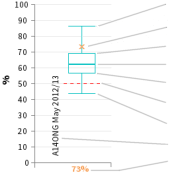
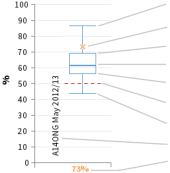
UI changes.

Changed region(s): [[0.3824, 0.1445, 0.5882, 0.5491]]

diff --git a/css/class_totals.css b/css/class_totals.css
@@ -57,13 +57,14 @@ td {
   background-color:#FFFF80;
 }
 .papernote {
+  margin:10px;
   padding:10px;
   width:300px;
   min-height:100px;
   line-height:150%;
-  background-color:#FFFF99;
   float:left;
-  border:5px solid white;
+  background-color:#FCE699;
+	border:1px solid #E6B10D;
 }
 .studentnote {
   display:none;
@@ -73,7 +74,8 @@ td {
   width:350px;
   z-index:10000;
   font-size:90%;
-  background-color:#FFFF99;
+  background-color:#FCE699;
+	border:1px solid #E6B10D;
 }
 .staff {
   background-color:#FCD5B4;

diff --git a/reports/draw_scatter_plot.php b/reports/draw_scatter_plot.php
@@ -41,17 +41,16 @@
     }
   }
   
-  $color = ImageColorAllocate($Image, 255, 255, 255);
-  $red = ImageColorAllocate($Image, 255, 0, 0);
-  $ltgrey = ImageColorAllocate($Image, 234, 234, 234);
-  $dkgrey = ImageColorAllocate($Image, 128, 128, 128);
-  $black = ImageColorAllocate($Image, 0, 0, 0);
-  $dkgreen = ImageColorAllocate($Image, 0, 128, 0);
+  $color		= ImageColorAllocate($Image, 255, 255, 255);
+  $red    	= ImageColorAllocate($Image, 192, 0, 0);
+  $ltgrey 	= ImageColorAllocate($Image, 234, 234, 234);
+  $dkgrey		= ImageColorAllocate($Image, 128, 128, 128);
+  $black		= ImageColorAllocate($Image, 0, 0, 0);
+  $dkgreen	= ImageColorAllocate($Image, 83, 129, 53);
 
   $font      = '../fonts/SourceSansPro-Regular.otf';
   $bold_font = '../fonts/SourceSansPro-Semibold.otf';
 
-  ImageLine($Image, 40 + $negative, 10, 40 + $negative, 250, $dkgrey);
   ImageLine($Image, 45, 250, 740 + $negative, 250, $dkgrey);
   ImageLine($Image, 45, 190, 740 + $negative, 190, $ltgrey);
   ImageLine($Image, 45, 130, 740 + $negative, 130, $ltgrey);
@@ -79,19 +78,24 @@
   }
 
   // Label y axis
+  ImageLine($Image, 50, 10, 50, 250, $dkgrey);
+	if ($negative == 80) {
+		ImageLine($Image, 120, 10, 120, 250, $dkgrey);  // Draw extra line at zero.
+	}
   for ($label=10; $label<=250; $label+=10) {
-    ImageLine($Image, 34 + $negative, $label, 40 + $negative, $label, $dkgrey);
+    ImageLine($Image, 44, $label, 50, $label, $dkgrey);
   }
   for ($i=1; $i<=4; $i++) {
-    imagettftext($Image, 10, 0, 10 + $negative, 256-($i*60), $black, $font, $i*60);
+    imagettftext($Image, 10, 0, 20, 256-($i*60), $black, $font, $i*60);
   }
 
-  $mydata = file( $configObject->get('cfg_tmpdir') . $userObject->get_user_ID() . '_scatter.dat');
+  // Plot the data points.
+	$mydata = file( $configObject->get('cfg_tmpdir') . $userObject->get_user_ID() . '_scatter.dat');
   $count_mydata = count($mydata) - 2;
   for ($i=0; $i<$count_mydata; $i=$i+2) {
     $mark = trim($mydata[$i]);
-    if ($mark >= -10) {
-      $duration = round($mydata[$i + 1] / 60);
+    $duration = round($mydata[$i + 1] / 60);
+    if ($duration > 0 and $mark >= -10) {
       if ($mark < $_GET['pmk']) {
         ImageFilledRectangle($Image, ($mark * 7) + 40 + $negative, 249 - $duration, ($mark * 7) + 41 + $negative, 250 - $duration, $red);
       } elseif ($mark >= $_GET['pmk'] and $mark < $_GET['distinction_mark']) {
@@ -107,7 +111,7 @@
   } else {
     imagettftext($Image, 12, 0, 342 + (abs($scale_start)*5), 286, $black, $bold_font, $string['adjustedpercent']);
   }
-  imagettftext($Image, 12, 90, 3 + $negative, 162, $black, $bold_font, $string['time']);
+  imagettftext($Image, 12, 90, 13, 162, $black, $bold_font, $string['time']);
 
   ImagePNG($Image);
 

diff --git a/reports/class_totals.php b/reports/class_totals.php
@@ -234,7 +234,7 @@ ob_start();
 
 <body>
 <div id="noteDiv" class="studentnote">
-<div style="text-align:right; padding:2px"><img onclick="$('#noteDiv').hide();" src="../artwork/close_note.png" width="16" height="16" alt="Close" style="cursor:pointer" /></div>
+<div style="text-align:right"><img onclick="$('#noteDiv').hide();" src="../artwork/close_note.png" style="border-left:1px solid #E6B10D; border-bottom:1px solid #E6B10D; cursor:pointer" width="26" height="14" alt="Close" /></div>
 <div id="noteMsg"></div>
 </div>
 
@@ -255,11 +255,11 @@ if ($language != 'en') {
         <td id="item2a" style="text-align:center; border-top:1px solid #F1F5FB; border-bottom:1px solid #F1F5FB; border-left:1px solid #F1F5FB; border-right:0px solid #F1F5FB; background-color:#F1F5FB; width:24px" onmouseover="menuRowOn('2');" onmouseout="menuRowOff('2');" onclick="viewFeedback();"><img src="../artwork/ok_comment.png" width="16" height="16" alt="" border="0" /></td><td id="item2b" style="padding-left:8px; border:1px solid #FFFFFF; background-color:#FFFFFF; cursor:default" onmouseover="menuRowOn('2');" onmouseout="menuRowOff('2');" onclick="viewFeedback();"><?php echo $string['feedback']; ?></td>
       </tr>
       <tr>
-        <td style="background-color:#F1F5FB; width:22px"></td><td style="padding-left:8px; text-align:right"><img src="../artwork/popup_divider.png" width="100%" height="3" border="0" alt="-" /></td>
+        <td style="background-color:#F1F5FB; width:22px"></td><td style="padding-left:8px; text-align:right"><img src="../artwork/popup_divider.png" width="100%" height="3" alt="-" /></td>
       </tr>
       <tr>
         <td id="item3a" style="text-align:center; border-top:1px solid #F1F5FB; border-bottom:1px solid #F1F5FB; border-left:1px solid #F1F5FB; border-right:0px solid #F1F5FB; background-color:#F1F5FB; width:24px" onmouseover="menuRowOn('3');" onmouseout="menuRowOff('3');" onclick="viewProfile();">
-          <img src="../artwork/small_user_icon.gif" width="16" height="16" alt="" border="0" />
+          <img src="../artwork/small_user_icon.gif" width="16" height="16" alt="" />
           </td>
           <td id="item3b" style="padding-left:8px; border:1px solid #FFFFFF; background-color:#FFFFFF; cursor:default" onmouseover="menuRowOn('3');" onmouseout="menuRowOff('3');" onclick="viewProfile();">
           <?php echo $string['studentprofile']; ?>

diff --git a/reports/draw_distribution_chart.php b/reports/draw_distribution_chart.php
@@ -98,12 +98,12 @@
   $Image = ImageCreate(830, 300);
 
   $color   = ImageColorAllocate($Image, 255, 255, 255);
-  $red     = ImageColorAllocate($Image, 255, 0, 0);
+  $red     = ImageColorAllocate($Image, 192, 0, 0);
   $ltgrey  = ImageColorAllocate($Image, 234, 234, 234);
   $dkgrey  = ImageColorAllocate($Image, 128, 128, 128);
   $black   = ImageColorAllocate($Image, 0, 0, 0);
-  $dkgreen = ImageColorAllocate($Image, 0, 128, 0);
-  $blue    = ImageColorAllocate($Image, 0, 192, 192);
+  $dkgreen = ImageColorAllocate($Image, 83, 129, 53);
+  $blue    = ImageColorAllocate($Image, 91, 155, 213);
   
   $font      = '../fonts/SourceSansPro-Regular.otf';
   $bold_font = '../fonts/SourceSansPro-Semibold.otf';

diff --git a/students/draw_boxplot.php b/students/draw_boxplot.php
@@ -58,11 +58,11 @@ if ($scale == '1') {
 $gap = 24;
 
 $color   = ImageColorAllocate($Image, 255, 255, 255);
-$red     = ImageColorAllocate($Image, 255, 0, 0);
+$red     = ImageColorAllocate($Image, 192, 0, 0);
 $ltgrey  = ImageColorAllocate($Image, 234, 234, 234);
 $dkgrey  = ImageColorAllocate($Image, 128, 128, 128);
 $black   = ImageColorAllocate($Image, 0, 0, 0);
-$blue    = ImageColorAllocate($Image, 0, 192, 192);
+$blue    = ImageColorAllocate($Image, 91, 155, 213);
 $amber   = ImageColorAllocate($Image, 247, 150, 70);
 $ltamber = ImageColorAllocate($Image, 251, 198, 155);
 
